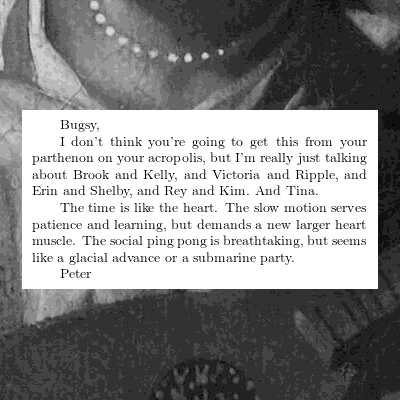
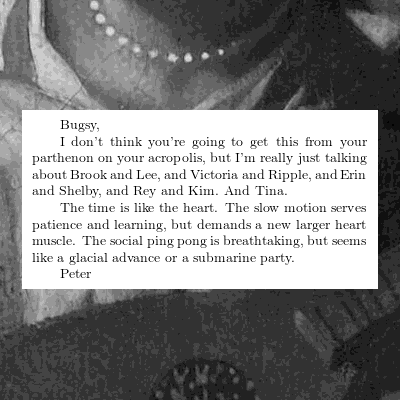
bugsy

Changed region(s): [[0.06, 0.42, 0.93, 0.51]]

diff --git a/2021/cygnus-20210217-0.tex b/2021/cygnus-20210217-0.tex
@@ -3,7 +3,7 @@
 Bugsy,
 
 I don't think you're going to get this from your parthenon on your
-acropolis, but I'm really just talking about Brook and Kelly, and
+acropolis, but I'm really just talking about Brook and Lee, and
 Victoria and Ripple, and Erin and Shelby, and Rey and Kim.  And Tina.
 
 The time is like the heart.  The slow motion serves patience and
